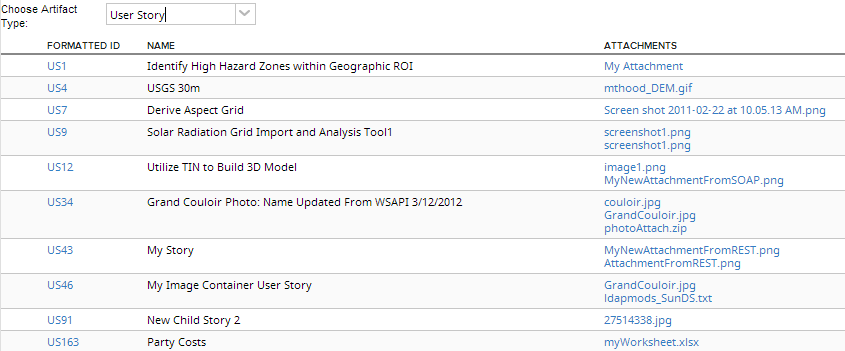
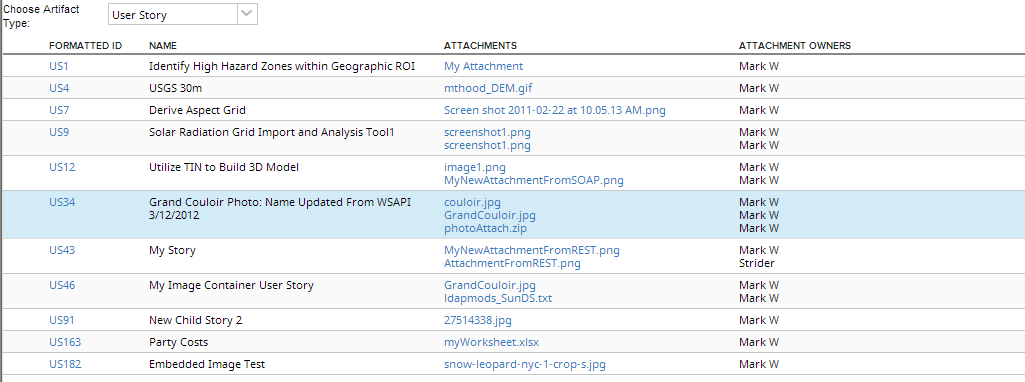
Updated to show Attachment Owner

Changed region(s): [[0.0, 0.0, 1.0, 0.9972]]

diff --git a/deploy/App.html b/deploy/App.html
@@ -7,7 +7,7 @@
 
     <script type="text/javascript">
         Rally.onReady(function () {
-                Ext.define("CustomApp",{extend:"Rally.app.App",componentCls:"app",items:[{xtype:"container",itemId:"artifactTypeDropdown",columnWidth:1},{xtype:"container",itemId:"gridContainer",columnWidth:1}],_rallyServer:window.location.hostname,_artifactTypeCombobox:null,_artifactStore:null,_artifactsWithAttachments:[],_artifactAttachmentGrid:null,launch:function(){var artifactTypesStore=Ext.create("Ext.data.Store",{fields:["name","type"],data:[{name:"Portfolio Item",type:"PortfolioItem"},{name:"User Story",type:"HierarchicalRequirement"},{name:"Defect",type:"Defect"},{name:"Test Case",type:"TestCase"},{name:"Task",type:"Task"}]});this._artifactTypeCombobox=Ext.create("Ext.form.ComboBox",{fieldLabel:"Choose Artifact Type",store:artifactTypesStore,queryMode:"local",displayField:"name",valueField:"type",listeners:{scope:this,select:this._getArtifacts}}),this.down("#artifactTypeDropdown").add(this._artifactTypeCombobox)},_getArtifacts:function(){var selectedArtifactType=this._artifactTypeCombobox.getValue();this._artifactStore=Ext.create("Rally.data.wsapi.Store",{model:selectedArtifactType,fetch:["ObjectID","FormattedID","Name","Attachments"],autoLoad:!0,limit:4e3,context:{projectScopeUp:!1,projectScopeDown:!1},listeners:{scope:this,load:this._artifactStoreLoaded},filters:{property:"Attachments.ObjectID",operator:"!=",value:"null"}})},_artifactStoreLoaded:function(store,records){var me=this;me._artifactsWithAttachments=[];var artifactRecords=[],promises=[];0===records.length?me._noArtifactsNotify():(Ext.Array.each(records,function(artifact){promises.push(me._getArtifactAttachments(artifact,me))}),Deft.Promise.all(promises).then({success:function(results){Ext.Array.each(results,function(result){me._artifactsWithAttachments.push(result)}),me._makeGrid()}}))},_getArtifactAttachments:function(artifact,scope){var deferred=Ext.create("Deft.Deferred"),me=scope,attachments=[],resultHash={},artifactRef=artifact.get("_ref"),artifactObjectID=artifact.get("ObjectID"),artifactFormattedID=artifact.get("FormattedID"),artifactName=artifact.get("Name"),attachmentCollection=artifact.getCollection("Attachments",{fetch:["Name","ObjectID"]}),attachmentCount=attachmentCollection.getCount();return attachmentCollection.load({callback:function(records,operation,success){Ext.Array.each(records,function(attachment){attachments.push(attachment)}),result={_ref:artifactRef,ObjectID:artifactObjectID,FormattedID:artifactFormattedID,Name:artifactName,Attachments:attachments},deferred.resolve(result)}}),deferred},_makeGrid:function(){var me=this;me._artifactAttachmentGrid&&me._artifactAttachmentGrid.destroy();var gridStore=Ext.create("Rally.data.custom.Store",{data:me._artifactsWithAttachments,pageSize:1e3,remoteSort:!1});me._artifactAttachmentGrid=Ext.create("Rally.ui.grid.Grid",{itemId:"artifactGrid",store:gridStore,columnCfgs:[{text:"Formatted ID",dataIndex:"FormattedID",xtype:"templatecolumn",tpl:Ext.create("Rally.ui.renderer.template.FormattedIDTemplate")},{text:"Name",dataIndex:"Name",flex:1},{text:"Attachments",dataIndex:"Attachments",renderer:function(values){var attachmentsHtml=[];return Ext.Array.each(values,function(attachment){var attachmentObjectID=attachment.get("ObjectID"),attachmentName=attachment.get("Name");attachmentsHtml.push('<a href="https://rally1.rallydev.com/slm/attachment/'+attachmentObjectID+"/"+attachmentName+'">'+attachmentName+"</a>")}),attachmentsHtml.join("<br/> ")},flex:1}]}),me.down("#gridContainer").add(me._artifactAttachmentGrid),me._artifactsWithAttachments.reconfigure(gridStore)},_noArtifactsNotify:function(){this._artifactAttachmentGrid&&this._artifactAttachmentGrid.destroy(),this._artifactAttachmentGrid=this.down("#gridContainer").add({xtype:"container",html:"No attachments found on Artifacts of selected Type."})}});
+                Ext.define("CustomApp",{extend:"Rally.app.App",componentCls:"app",items:[{xtype:"container",itemId:"artifactTypeDropdown",columnWidth:1},{xtype:"container",itemId:"gridContainer",columnWidth:1}],_rallyServer:window.location.hostname,_artifactTypeCombobox:null,_artifactStore:null,_artifactsWithAttachments:[],_artifactAttachmentGrid:null,launch:function(){var artifactTypesStore=Ext.create("Ext.data.Store",{fields:["name","type"],data:[{name:"Portfolio Item",type:"PortfolioItem"},{name:"User Story",type:"HierarchicalRequirement"},{name:"Defect",type:"Defect"},{name:"Test Case",type:"TestCase"},{name:"Task",type:"Task"}]});this._artifactTypeCombobox=Ext.create("Ext.form.ComboBox",{fieldLabel:"Choose Artifact Type",store:artifactTypesStore,queryMode:"local",displayField:"name",valueField:"type",listeners:{scope:this,select:this._getArtifacts}}),this.down("#artifactTypeDropdown").add(this._artifactTypeCombobox)},_getArtifacts:function(){var selectedArtifactType=this._artifactTypeCombobox.getValue();this._artifactStore=Ext.create("Rally.data.wsapi.Store",{model:selectedArtifactType,fetch:["ObjectID","FormattedID","Name","Attachments"],autoLoad:!0,limit:4e3,context:{projectScopeUp:!1,projectScopeDown:!1},listeners:{scope:this,load:this._artifactStoreLoaded},filters:{property:"Attachments.ObjectID",operator:"!=",value:"null"}})},_artifactStoreLoaded:function(store,records){var me=this;me._artifactsWithAttachments=[];var artifactRecords=[],promises=[];0===records.length?me._noArtifactsNotify():(Ext.Array.each(records,function(artifact){promises.push(me._getArtifactAttachments(artifact,me))}),Deft.Promise.all(promises).then({success:function(results){Ext.Array.each(results,function(result){me._artifactsWithAttachments.push(result)}),me._makeGrid()}}))},_getArtifactAttachments:function(artifact,scope){var deferred=Ext.create("Deft.Deferred"),me=scope,attachments=[],attachmentUsers=[],resultHash={},artifactRef=artifact.get("_ref"),artifactObjectID=artifact.get("ObjectID"),artifactFormattedID=artifact.get("FormattedID"),artifactName=artifact.get("Name"),attachmentCollection=artifact.getCollection("Attachments",{fetch:["Name","ObjectID","User"]}),attachmentCount=attachmentCollection.getCount();return attachmentCollection.load({callback:function(records,operation,success){Ext.Array.each(records,function(attachment){attachments.push(attachment);var attachmentUser=attachment.get("User");attachmentUsers.push(attachmentUser)}),result={_ref:artifactRef,ObjectID:artifactObjectID,FormattedID:artifactFormattedID,Name:artifactName,Attachments:attachments,AttachmentUsers:attachmentUsers},deferred.resolve(result)}}),deferred},_makeGrid:function(){var me=this;me._artifactAttachmentGrid&&me._artifactAttachmentGrid.destroy();var gridStore=Ext.create("Rally.data.custom.Store",{data:me._artifactsWithAttachments,pageSize:1e3,remoteSort:!1});me._artifactAttachmentGrid=Ext.create("Rally.ui.grid.Grid",{itemId:"artifactGrid",store:gridStore,columnCfgs:[{text:"Formatted ID",dataIndex:"FormattedID",xtype:"templatecolumn",tpl:Ext.create("Rally.ui.renderer.template.FormattedIDTemplate")},{text:"Name",dataIndex:"Name",flex:1},{text:"Attachments",dataIndex:"Attachments",renderer:function(values){var attachmentsHtml=[];return Ext.Array.each(values,function(attachment){var attachmentObjectID=attachment.get("ObjectID"),attachmentName=attachment.get("Name");attachmentsHtml.push('<a href="https://rally1.rallydev.com/slm/attachment/'+attachmentObjectID+"/"+attachmentName+'">'+attachmentName+"</a>")}),attachmentsHtml.join("<br/> ")},flex:1},{text:"Attachment Owners",dataIndex:"AttachmentUsers",renderer:function(values){var usersHtml=[];return Ext.Array.each(values,function(user){var userName=user._refObjectName;usersHtml.push(userName)}),usersHtml.join("<br/>")},flex:1}]}),me.down("#gridContainer").add(me._artifactAttachmentGrid),me._artifactsWithAttachments.reconfigure(gridStore)},_noArtifactsNotify:function(){this._artifactAttachmentGrid&&this._artifactAttachmentGrid.destroy(),this._artifactAttachmentGrid=this.down("#gridContainer").add({xtype:"container",html:"No attachments found on Artifacts of selected Type."})}});
 
             Rally.launchApp('CustomApp', {
                 name:"Rally Artifacts With Attachments",

diff --git a/deploy/App-uncompressed.html b/deploy/App-uncompressed.html
@@ -3,7 +3,7 @@
 <head>
     <title>Rally Artifacts With Attachments</title>
 
-    <script type="text/javascript" src="/apps/2.0rc2/sdk.js"></script>
+    <script type="text/javascript" src="https://rally1.rallydev.com/apps/2.0rc2/sdk.js"></script>
 
     <script type="text/javascript">
         Rally.onReady(function () {
@@ -117,26 +117,30 @@
         var me = scope;
 
         var attachments = [];
+        var attachmentUsers = [];
         var resultHash = {};
 
         var artifactRef = artifact.get('_ref');
         var artifactObjectID = artifact.get('ObjectID');
         var artifactFormattedID = artifact.get('FormattedID');
         var artifactName = artifact.get('Name');
-        var attachmentCollection = artifact.getCollection("Attachments", {fetch: ['Name', 'ObjectID']});
+        var attachmentCollection = artifact.getCollection("Attachments", {fetch: ['Name', 'ObjectID', 'User']});
         var attachmentCount = attachmentCollection.getCount();
 
         attachmentCollection.load({
             callback: function(records, operation, success) {
                 Ext.Array.each(records, function(attachment) {
                     attachments.push(attachment);
+                    var attachmentUser = attachment.get('User');
+                    attachmentUsers.push(attachmentUser);
                 });
                 result = {
                     "_ref": artifactRef,
                     "ObjectID": artifactObjectID,
                     "FormattedID": artifactFormattedID,
                     "Name": artifactName,
-                    "Attachments": attachments
+                    "Attachments": attachments,
+                    "AttachmentUsers": attachmentUsers
                 };
                 deferred.resolve(result);
             }
@@ -181,6 +185,18 @@
                             var attachmentName = attachment.get('Name');
                             attachmentsHtml.push('<a href="https://rally1.rallydev.com/slm/attachment/' + attachmentObjectID + "/" + attachmentName + '">' + attachmentName + '</a>');                        });
                         return attachmentsHtml.join('<br/> ');
+                    },
+                    flex: 1
+                },
+                {
+                    text: 'Attachment Owners', dataIndex: 'AttachmentUsers',
+                    renderer: function(values) {
+                        var usersHtml = [];
+                        Ext.Array.each(values, function(user) {
+                            var userName = user._refObjectName;
+                            usersHtml.push(userName);
+                        });
+                        return usersHtml.join('<br/>');
                     },
                     flex: 1
                 }

diff --git a/App.js b/App.js
@@ -108,26 +108,30 @@ Ext.define('CustomApp', {
         var me = scope;
 
         var attachments = [];
+        var attachmentUsers = [];
         var resultHash = {};
 
         var artifactRef = artifact.get('_ref');
         var artifactObjectID = artifact.get('ObjectID');
         var artifactFormattedID = artifact.get('FormattedID');
         var artifactName = artifact.get('Name');
-        var attachmentCollection = artifact.getCollection("Attachments", {fetch: ['Name', 'ObjectID']});
+        var attachmentCollection = artifact.getCollection("Attachments", {fetch: ['Name', 'ObjectID', 'User']});
         var attachmentCount = attachmentCollection.getCount();
 
         attachmentCollection.load({
             callback: function(records, operation, success) {
                 Ext.Array.each(records, function(attachment) {
                     attachments.push(attachment);
+                    var attachmentUser = attachment.get('User');
+                    attachmentUsers.push(attachmentUser);
                 });
                 result = {
                     "_ref": artifactRef,
                     "ObjectID": artifactObjectID,
                     "FormattedID": artifactFormattedID,
                     "Name": artifactName,
-                    "Attachments": attachments
+                    "Attachments": attachments,
+                    "AttachmentUsers": attachmentUsers
                 };
                 deferred.resolve(result);
             }
@@ -172,6 +176,18 @@ Ext.define('CustomApp', {
                             var attachmentName = attachment.get('Name');
                             attachmentsHtml.push('<a href="https://rally1.rallydev.com/slm/attachment/' + attachmentObjectID + "/" + attachmentName + '">' + attachmentName + '</a>');                        });
                         return attachmentsHtml.join('<br/> ');
+                    },
+                    flex: 1
+                },
+                {
+                    text: 'Attachment Owners', dataIndex: 'AttachmentUsers',
+                    renderer: function(values) {
+                        var usersHtml = [];
+                        Ext.Array.each(values, function(user) {
+                            var userName = user._refObjectName;
+                            usersHtml.push(userName);
+                        });
+                        return usersHtml.join('<br/>');
                     },
                     flex: 1
                 }
